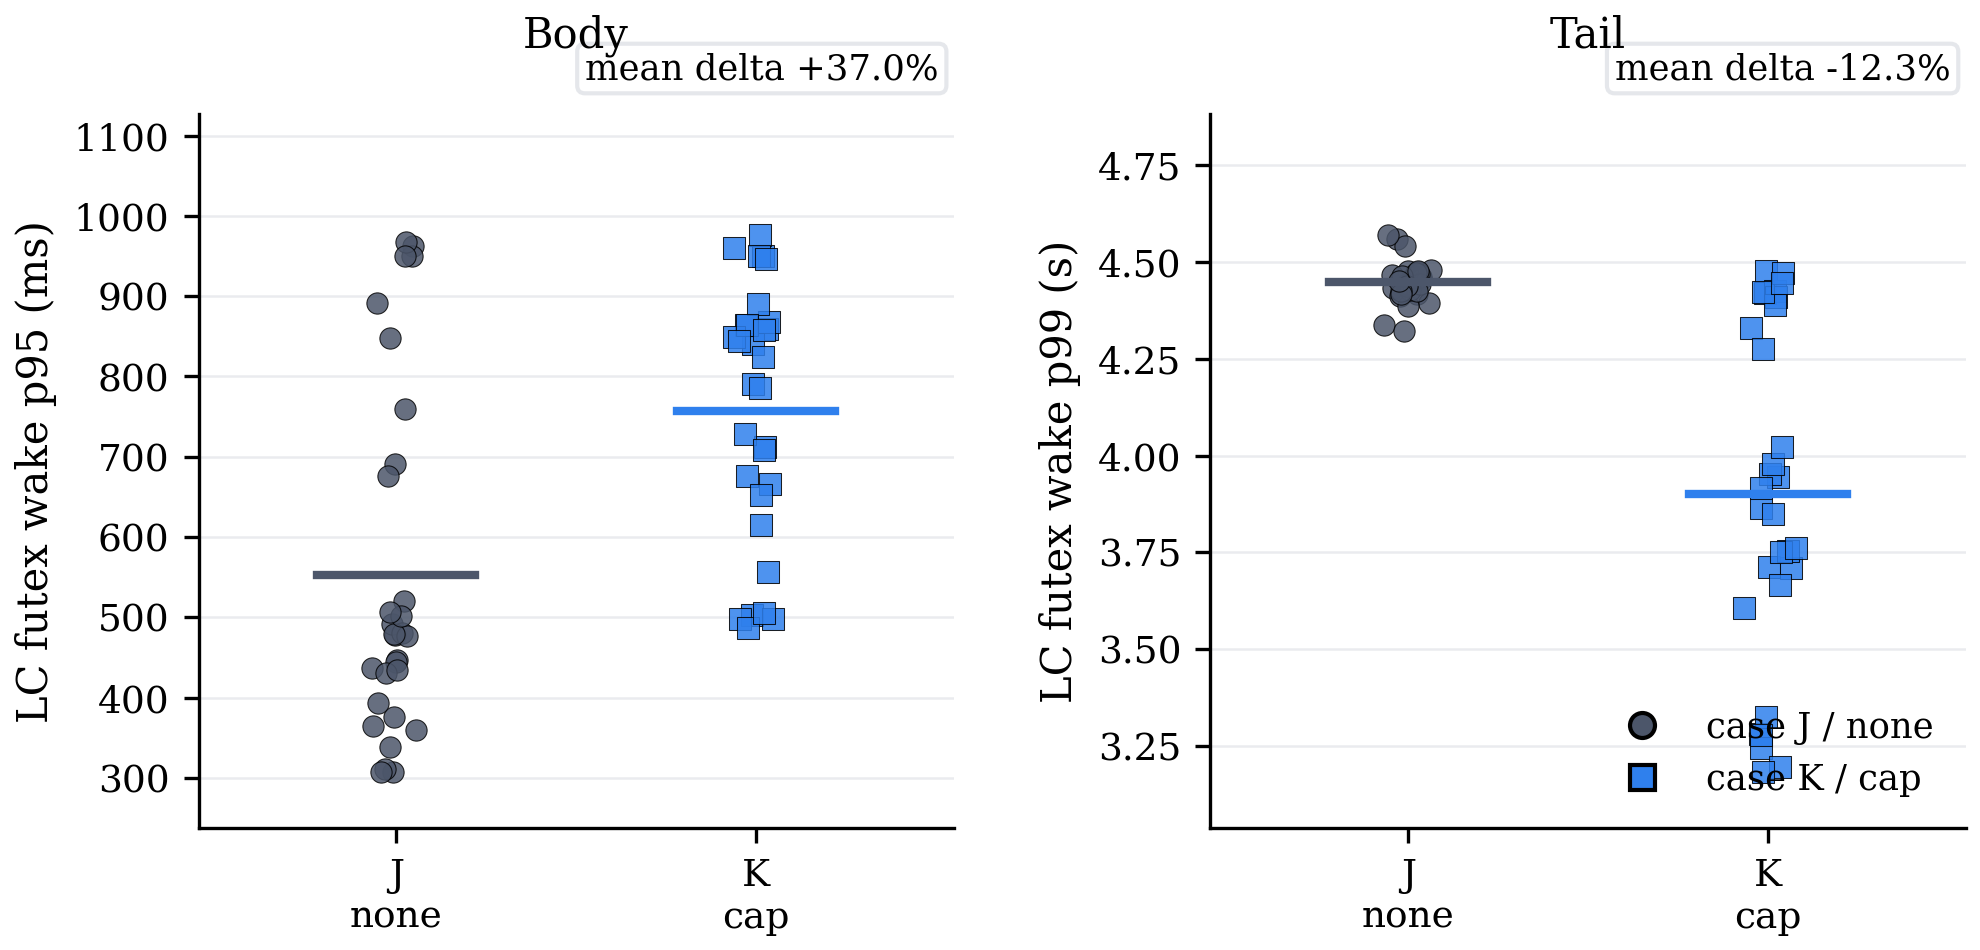
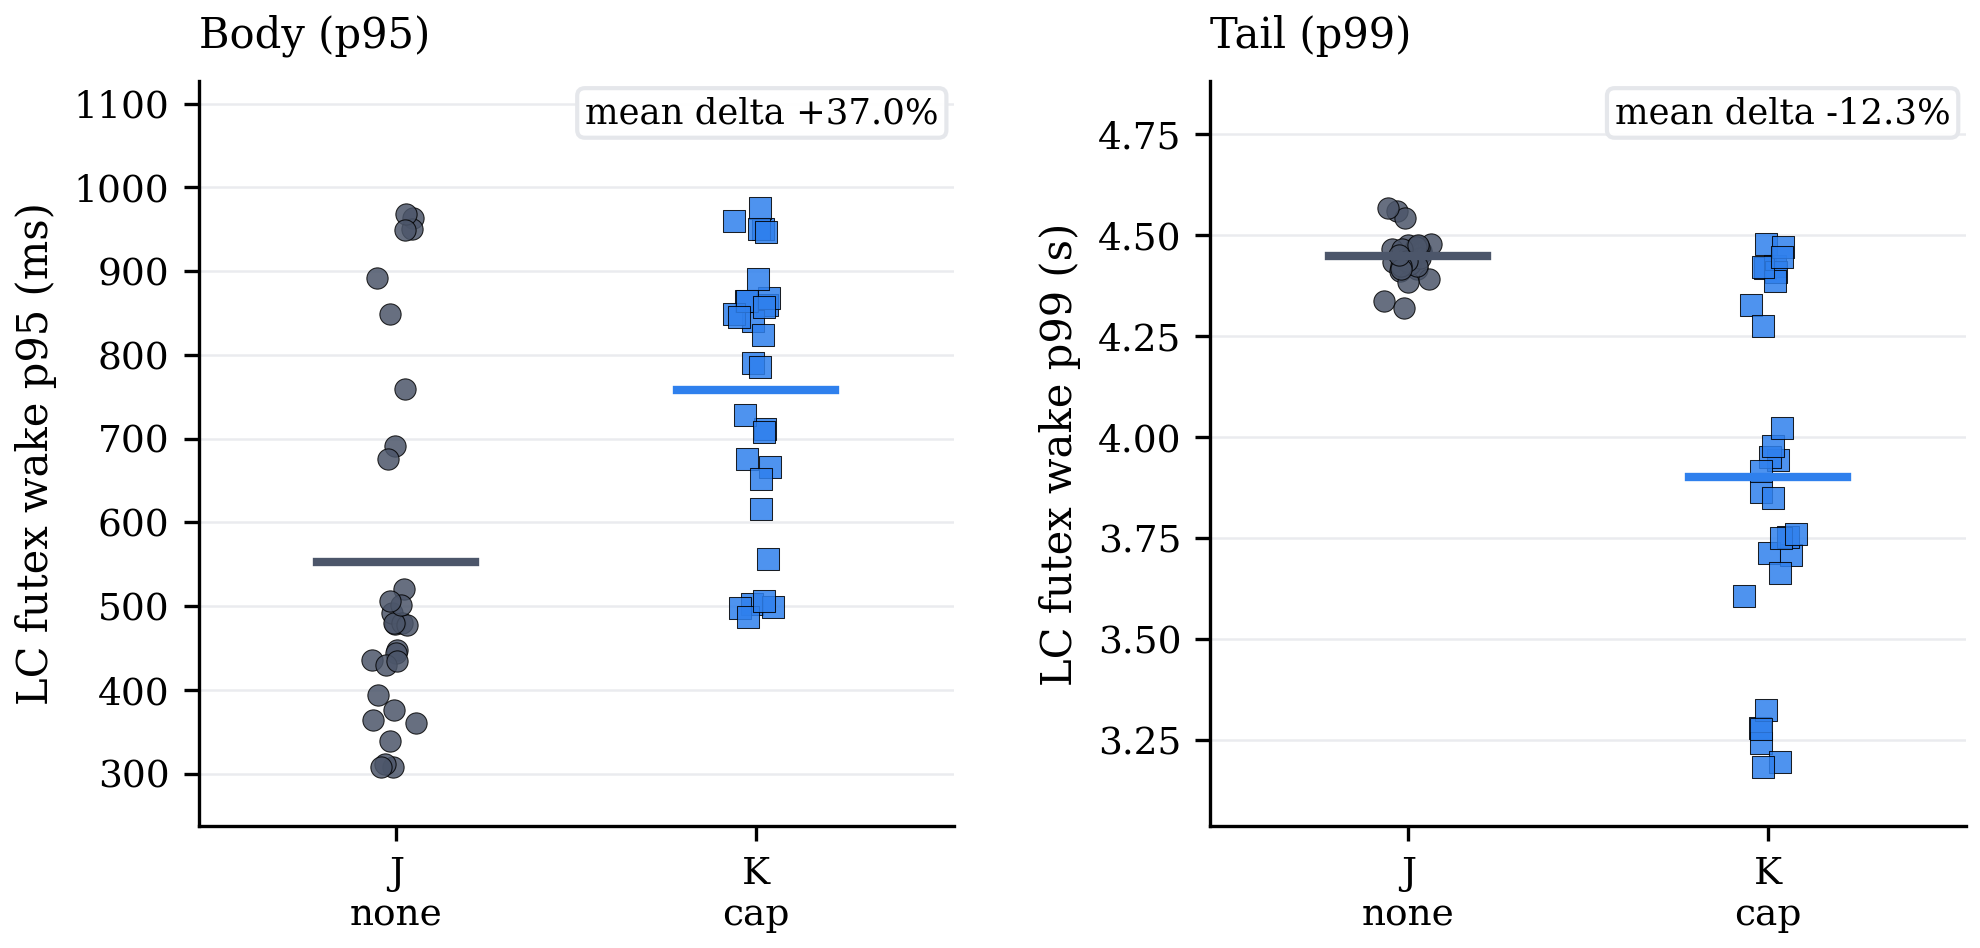
slight changes

diff --git a/llama_validation/scripts/lc_plots.py b/llama_validation/scripts/lc_plots.py
@@ -968,8 +968,11 @@ def fig2_os_futex_reshape_jk(os_rows: List[dict], out_dir: Path, summary_rows: L
         left_label="J\nnone", right_label="K\ncap", seed=11,
     )
     add_vertical_headroom(axes[0], top_frac=0.16, bottom_frac=0.05)
-    axes[0].set_title("Body", pad=16)
-    annotate_delta(axes[0], 0.98, 1.04, f"mean delta {format_delta(d95)}", outside=True)
+    # Keep the panel label and delta in different regions.  The delta is
+    # inside the deliberately-added headroom, not above the axes, so it cannot
+    # collide with the title.
+    axes[0].set_title("Body (p95)", loc="left", pad=8)
+    annotate_delta(axes[0], 0.98, 0.98, f"mean delta {format_delta(d95)}", outside=False)
 
     d99 = scatter_two_groups(
         axes[1], none_p99_s, cap_p99_s,
@@ -977,17 +980,12 @@ def fig2_os_futex_reshape_jk(os_rows: List[dict], out_dir: Path, summary_rows: L
         left_label="J\nnone", right_label="K\ncap", seed=12,
     )
     add_vertical_headroom(axes[1], top_frac=0.16, bottom_frac=0.05)
-    axes[1].set_title("Tail", pad=16)
-    annotate_delta(axes[1], 0.98, 1.04, f"mean delta {format_delta(d99)}", outside=True)
+    axes[1].set_title("Tail (p99)", loc="left", pad=8)
+    annotate_delta(axes[1], 0.98, 0.98, f"mean delta {format_delta(d99)}", outside=False)
 
-    legend_elements = [
-        Line2D([0], [0], marker=MARKER_NONE, color="w", label="case J / none",
-               markerfacecolor=COLOR_NONE, markeredgecolor="black", markersize=6),
-        Line2D([0], [0], marker=MARKER_CAP, color="w", label="case K / cap",
-               markerfacecolor=COLOR_CAP, markeredgecolor="black", markersize=6),
-    ]
-    axes[1].legend(handles=legend_elements, loc="lower right", frameon=False)
-    fig.subplots_adjust(top=0.80, wspace=0.34)
+    # No in-plot legend: the x-axis labels identify J/none and K/cap on both
+    # panels.  Keeping the legend out avoids covering the low K tail points.
+    fig.subplots_adjust(top=0.90, bottom=0.18, wspace=0.34)
 
     out = out_dir / "fig2_os_futex_reshape_jk.png"
     fig.savefig(out)
